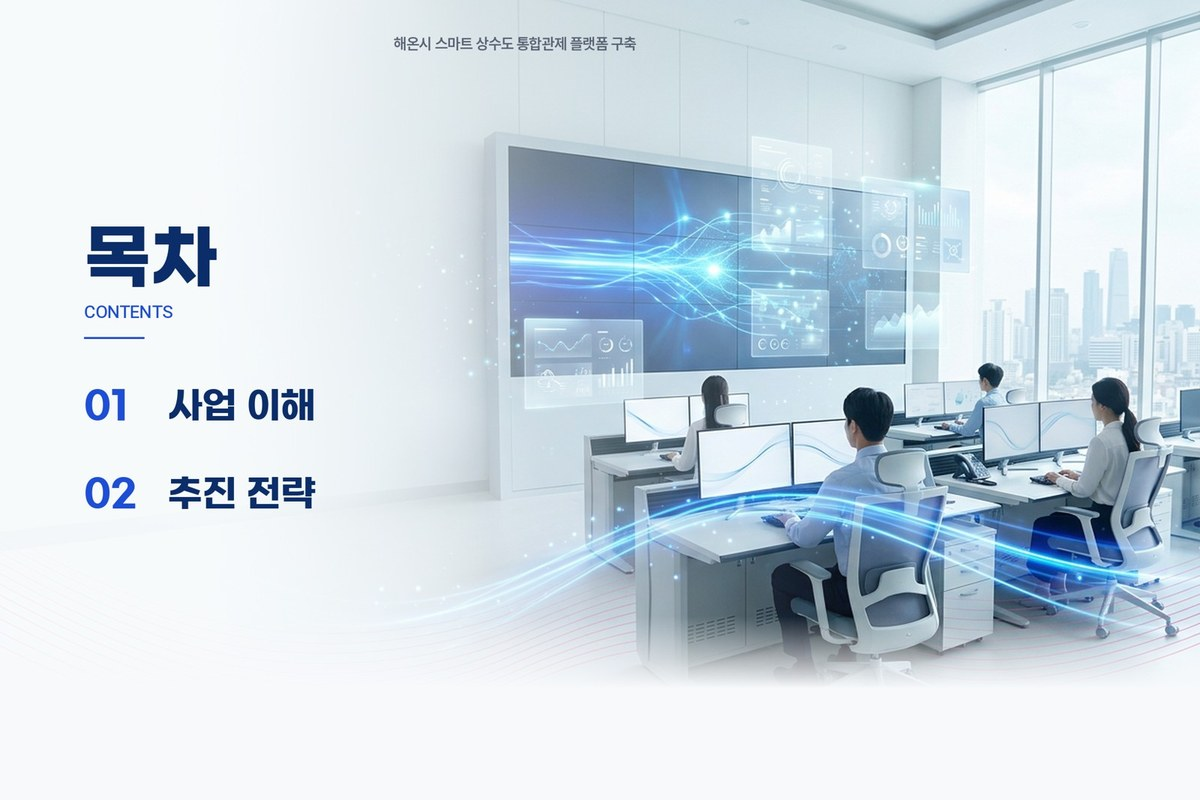
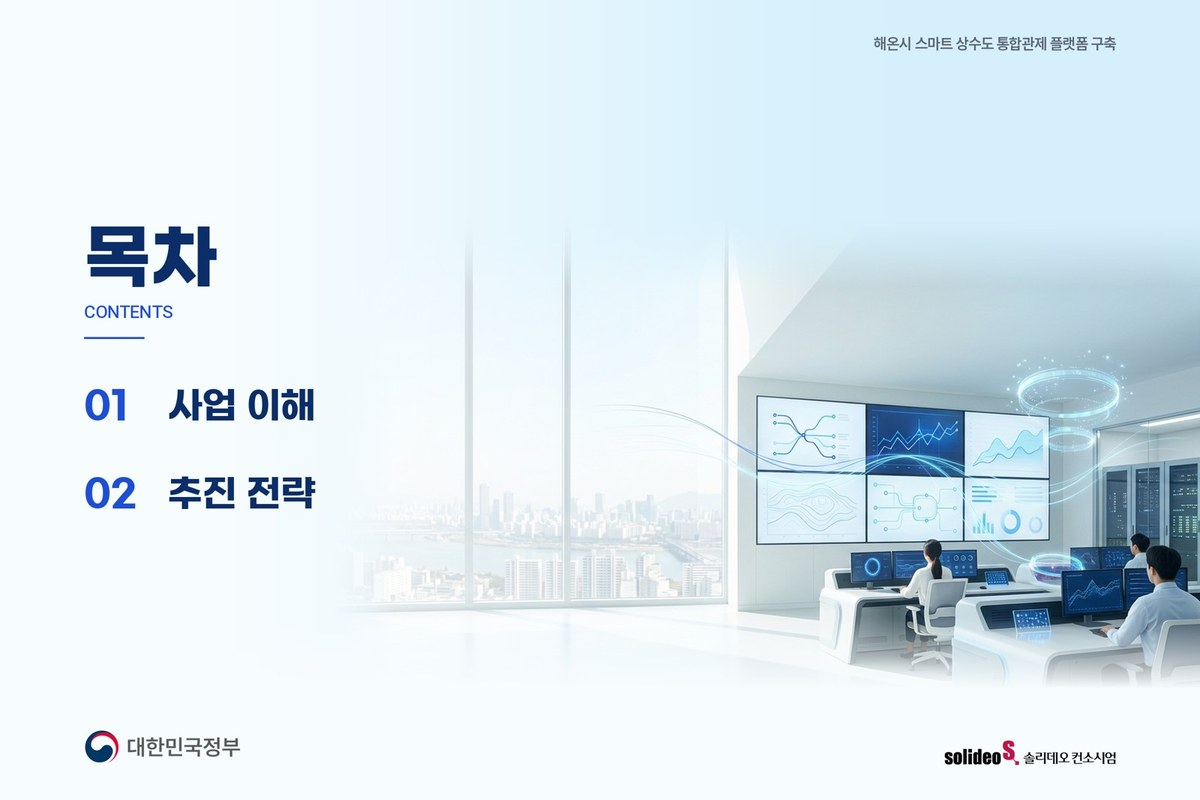
공개본 동기화 — 개발 저장소 58d281c

diff --git a/apps/web/app/modules/deck/legacy/DesignTypes.tsx b/apps/web/app/modules/deck/legacy/DesignTypes.tsx
@@ -7,7 +7,7 @@ import { cn, Modal, Ms } from "./ui";
 export type DesignType = { id: string; name: string; desc: string; fits: string; samples?: number };
 export const DESIGN_TYPES: DesignType[] = (data as { styles: DesignType[] }).styles.map((s) => ({ ...s, samples: s.samples ?? 4 }));
 export const typeName = (id?: string | null) => DESIGN_TYPES.find((t) => t.id === (id || "a"))?.name ?? "공공 제안 클레이";
-export const THUMB_V = 16;   // 샘플 그림을 바꾸면 올린다(브라우저 캐시)
+export const THUMB_V = 17;   // 샘플 그림을 바꾸면 올린다(브라우저 캐시)
 export const thumb = (id: string, n: number) => `${import.meta.env.BASE_URL}styles/${id}/${n}.jpg?v=${THUMB_V}`;
 const hide = (e: { target: EventTarget }) => { (e.target as HTMLImageElement).style.visibility = "hidden"; };
 

diff --git a/engine/design.py b/engine/design.py
@@ -3055,7 +3055,9 @@ def make_front_mockup(job, f, plan, accent, feedback=""):
                         "This is NOT the cover. Show a DIFFERENT subject and composition from the cover of the same deck — different people (or no people), a different place, object or moment that fits the Subject above. "
                         "Never repeat the cover's scene. " + ("For the contents page show the PLACE or the EQUIPMENT of the project (a wide, calm view) with no people in the foreground. " if k == "toc" else "") + "\n")
                 if tset and tset.get(k + "_what"):
-                    bgp += f"Background treatment of this page (Korean): {tset[k + '_what']}\n"
+                    bgp += (f"Background treatment of this page (Korean): {tset[k + '_what']}\n"
+                            "Take ONLY the background color, shapes and where the picture sits from that description. Draw NO list, numbers, dots, bullets, "
+                            "placeholder lines, titles, labels or words (no '목차', no '제안서') — every text and list marker is added afterwards by the engine.\n")   # 10-15 A 목차 배경에 GPT 가 '제안서 목차'·점 목록을 그렸다
                 if k == "div" and not panel:
                     bgp += ("QUIET PAGE: a chapter divider only announces a new section. The picture is small and simple — at most 2 elements (for a hexagon cluster: 2 hexagons, not a honeycomb), "
                             "occupying no more than about 20% of the page at the lower right; everything else is calm, flat, empty background. Low contrast, no busy detail.\n")
